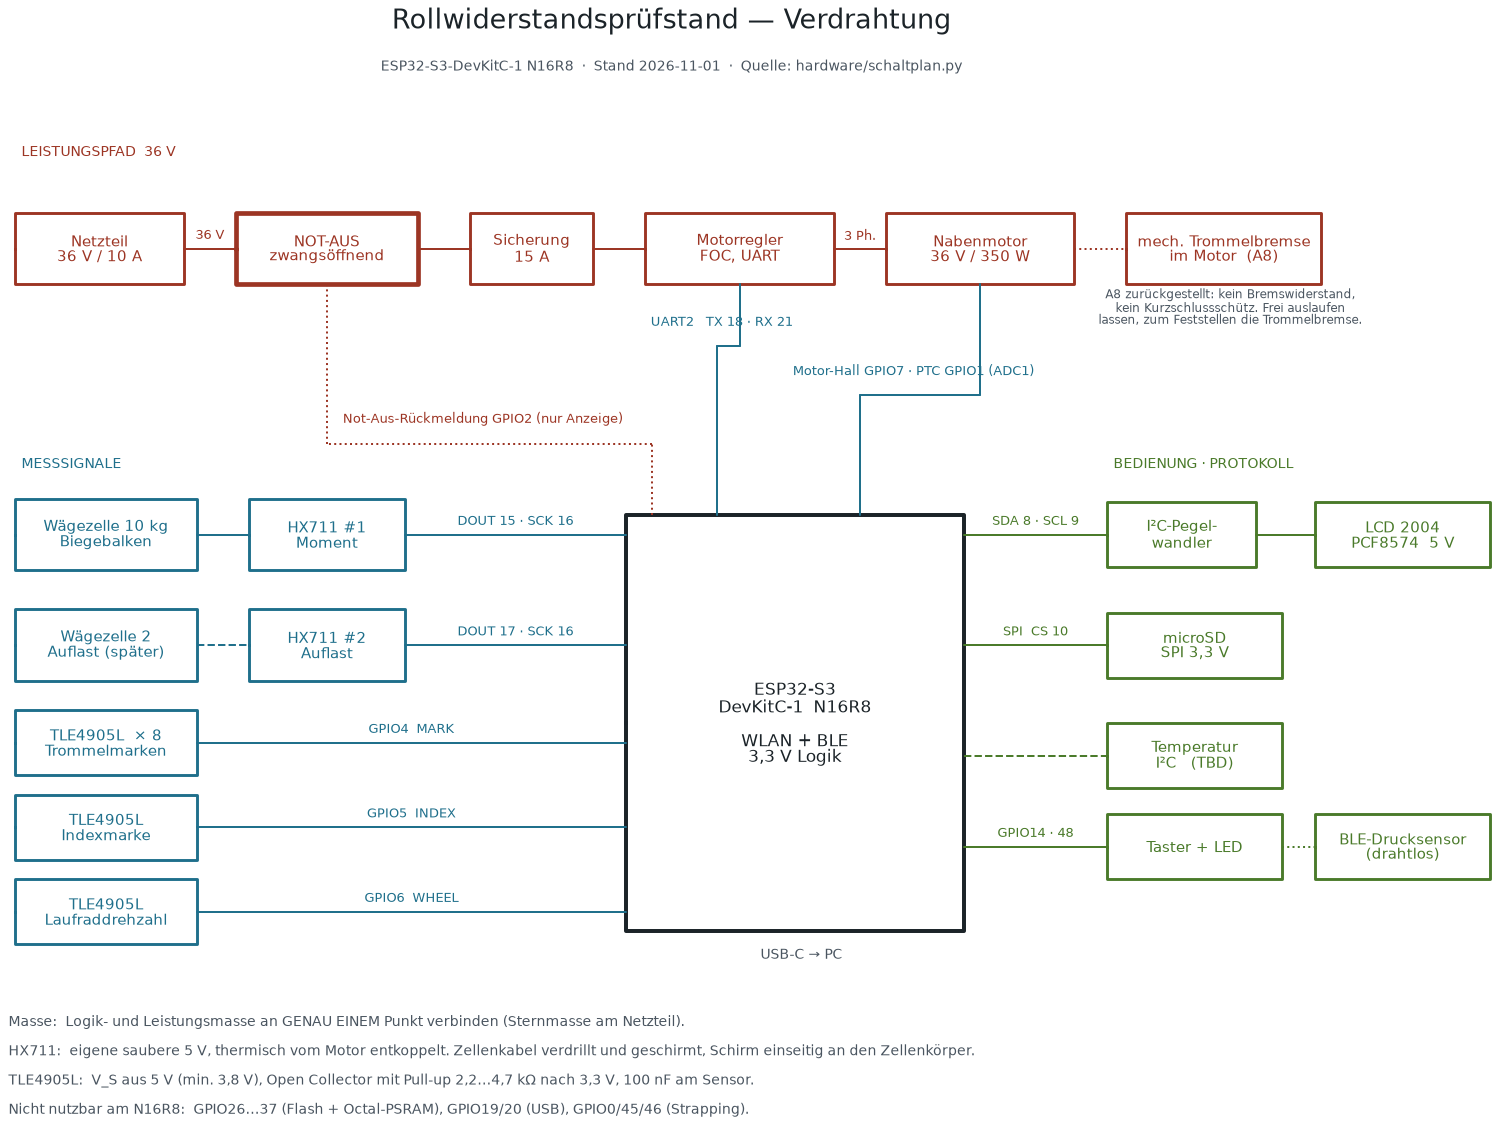
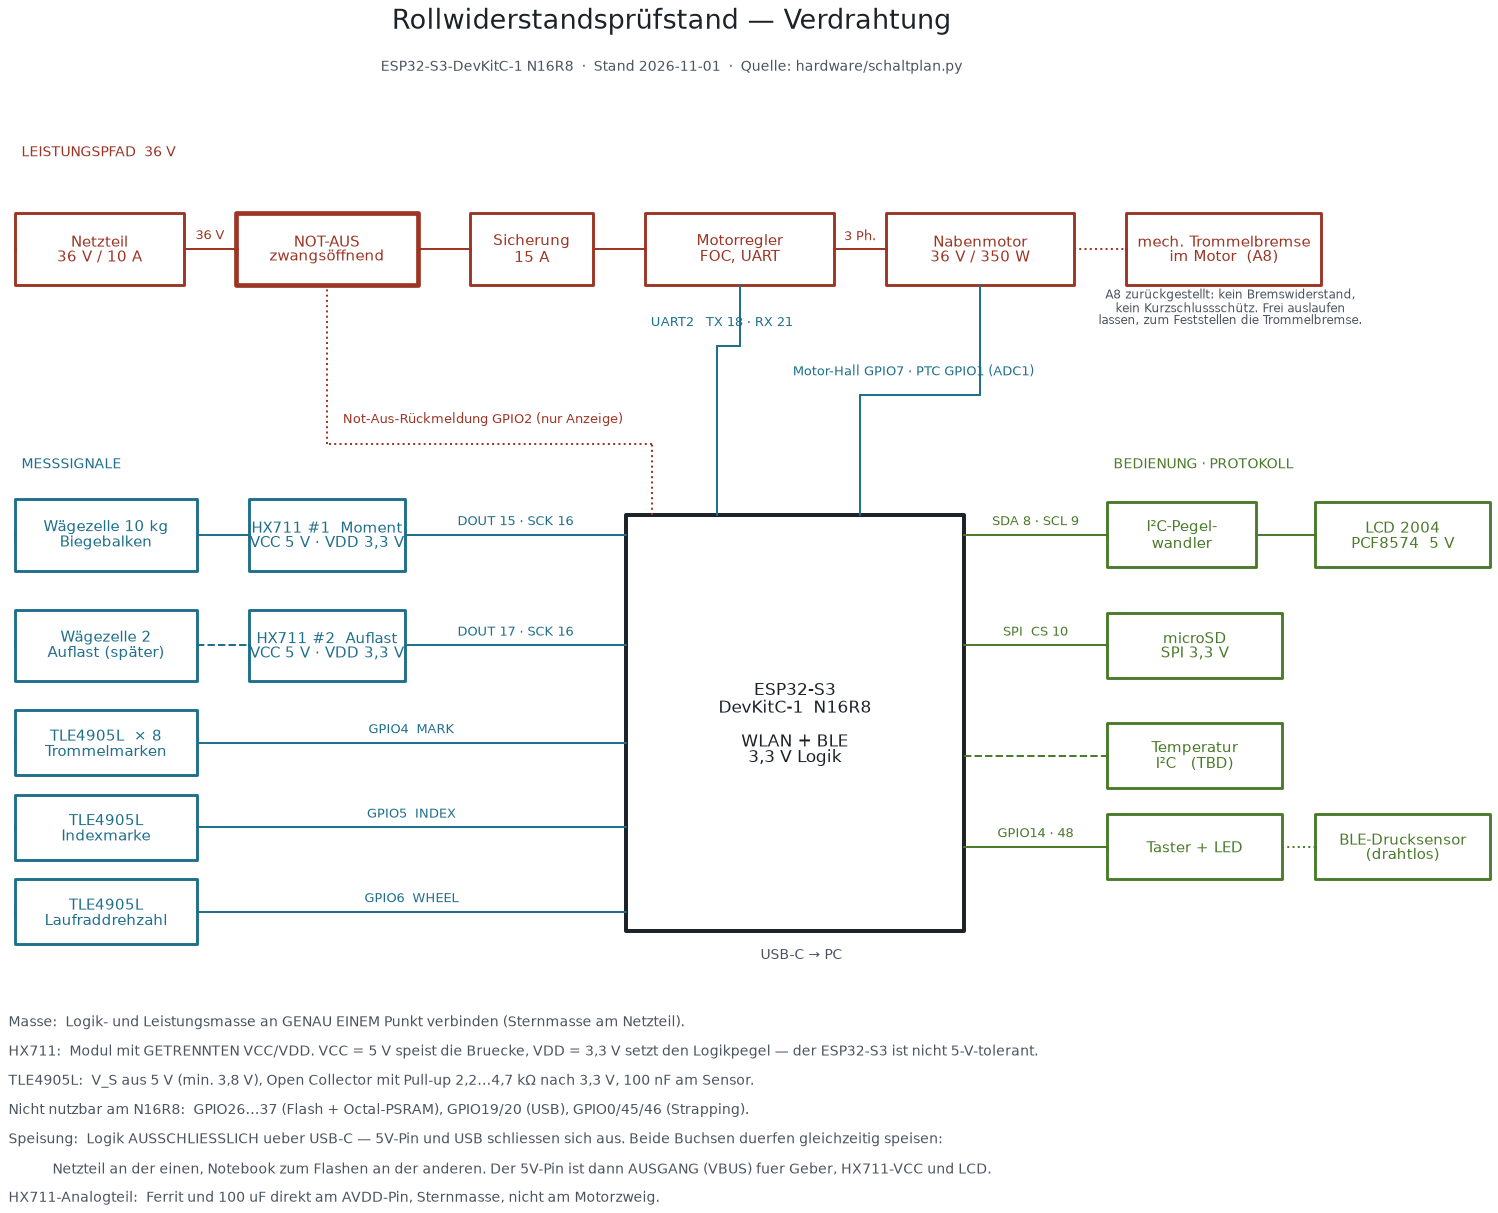
HX711 mit getrennten VCC/VDD festgelegt
VCC = 5 V speist die Bruecke, VDD = 3,3 V setzt den Logikpegel. Vierpolige
Module scheiden damit aus. Die Alternative, alles auf 3,3 V zu fahren, kostet
keine Counts (ratiometrisch), aber 3,6 dB SNR — bei 12 N Signal des besten
Rennreifens auf einer 98-N-Zelle zu viel.

Schaltplan, Stueckliste und Entscheidungslog nachgezogen. Stueckliste
ausserdem aktualisiert: ESP32-S3 beschafft, Geber und Magnete vorhanden,
Bremswiderstand zurueckgestellt, USB-Netzteil ergaenzt.

diff --git a/hardware/schaltplan.py b/hardware/schaltplan.py
@@ -74,9 +74,9 @@ with schemdraw.Drawing(show=False) as d:
 
     # --------------------------------------------------- Sensorik links
     zelle = box(d, -12.0, -4.4, 2.8, 1.1, 'Wägezelle 10 kg\nBiegebalken', SIG)
-    hx1   = box(d,  -8.4, -4.4, 2.4, 1.1, 'HX711 #1\nMoment', SIG)
+    hx1   = box(d,  -8.4, -4.4, 2.4, 1.1, 'HX711 #1  Moment\nVCC 5 V · VDD 3,3 V', SIG)
     zelle2= box(d, -12.0, -6.1, 2.8, 1.1, 'Wägezelle 2\nAuflast (später)', SIG)
-    hx2   = box(d,  -8.4, -6.1, 2.4, 1.1, 'HX711 #2\nAuflast', SIG)
+    hx2   = box(d,  -8.4, -6.1, 2.4, 1.1, 'HX711 #2  Auflast\nVCC 5 V · VDD 3,3 V', SIG)
     hall1 = box(d, -12.0, -7.6, 2.8, 1.0, 'TLE4905L  × 8\nTrommelmarken', SIG)
     hall2 = box(d, -12.0, -8.9, 2.8, 1.0, 'TLE4905L\nIndexmarke', SIG)
     hall3 = box(d, -12.0,-10.2, 2.8, 1.0, 'TLE4905L\nLaufraddrehzahl', SIG)
@@ -123,13 +123,22 @@ with schemdraw.Drawing(show=False) as d:
         'Masse:  Logik- und Leistungsmasse an GENAU EINEM Punkt verbinden (Sternmasse am Netzteil).',
         fontsize=7.5, color='#4a5560', halign='left')
     d += elm.Label().at((-12.0, -12.45)).label(
-        'HX711:  eigene saubere 5 V, thermisch vom Motor entkoppelt. Zellenkabel verdrillt und geschirmt, Schirm einseitig an den Zellenkörper.',
+        'HX711:  Modul mit GETRENNTEN VCC/VDD. VCC = 5 V speist die Bruecke, VDD = 3,3 V setzt den Logikpegel \u2014 der ESP32-S3 ist nicht 5-V-tolerant.',
         fontsize=7.5, color='#4a5560', halign='left')
     d += elm.Label().at((-12.0, -12.9)).label(
         'TLE4905L:  V_S aus 5 V (min. 3,8 V), Open Collector mit Pull-up 2,2…4,7 kΩ nach 3,3 V, 100 nF am Sensor.',
         fontsize=7.5, color='#4a5560', halign='left')
     d += elm.Label().at((-12.0, -13.35)).label(
         'Nicht nutzbar am N16R8:  GPIO26…37 (Flash + Octal-PSRAM), GPIO19/20 (USB), GPIO0/45/46 (Strapping).',
+        fontsize=7.5, color='#4a5560', halign='left')
+    d += elm.Label().at((-12.0, -13.80)).label(
+        'Speisung:  Logik AUSSCHLIESSLICH ueber USB-C \u2014 5V-Pin und USB schliessen sich aus. Beide Buchsen duerfen gleichzeitig speisen:',
+        fontsize=7.5, color='#4a5560', halign='left')
+    d += elm.Label().at((-12.0, -14.25)).label(
+        '           Netzteil an der einen, Notebook zum Flashen an der anderen. Der 5V-Pin ist dann AUSGANG (VBUS) fuer Geber, HX711-VCC und LCD.',
+        fontsize=7.5, color='#4a5560', halign='left')
+    d += elm.Label().at((-12.0, -14.70)).label(
+        'HX711-Analogteil:  Ferrit und 100 uF direkt am AVDD-Pin, Sternmasse, nicht am Motorzweig.',
         fontsize=7.5, color='#4a5560', halign='left')
 
     d.save('hardware/schaltplan.pdf')

diff --git a/docs/04-hardware.md b/docs/04-hardware.md
@@ -95,15 +95,17 @@ Firmware-Konstante `BELT_RATIO` existiert genau für diesen Fall.
 | Gegenstecker Julet 9-polig | oder Stecker abschneiden und eigene Verbinder setzen | offen |
 | Motorregler | sensorierte FOC, UART-Sollwert, Bremsfunktion (VESC-Klasse **oder** umgeflashte Hoverboard-Platine) | offen |
 | Netzteil | 36–42 V, ≥ 10 A | offen |
-| ESP32-Board | beliebig, ≥ 2 freie Interrupt-Pins | offen |
-| Hall-Sensoren | 2 Stück, unipolar oder latching, digital | offen |
-| Magnete | 6 + 1 für Marken und Index | offen |
+| ESP32-Board | **ESP32-S3-DevKitC-1 N16R8** | beschafft |
+| USB-Netzteil | 5 V / ≥ 1 A, für den Messbetrieb (nicht das Notebook) | offen |
+| HX711-Modul | **getrennte VCC/VDD** (fünfpolig, SparkFun-Bauform) — vierpolige Module scheiden aus, siehe §5.2 | offen |
+| Hall-Sensoren | 3 × TLE4905L (Marken, Index, Laufrad), unipolar | vorhanden |
+| Magnete | 8 + 1, Ø10 × 3 mm mit Ø3-Senkloch | vorhanden |
 | Netzteil | 36 V, ≥ 10 A (besser 15 A) — Reserve für die Stromgrenze beim Anfahren | offen |
-| Bremswiderstand + Chopper | ~100 W, falls rekuperativ gebremst werden soll; ein Netzteil kann Rückspeisung nicht aufnehmen | offen |
+| Bremswiderstand + Chopper | **zurückgestellt** (A8) — stattdessen frei auslaufen lassen, mechanische Trommelbremse zum Feststellen | – |
 | Stehlager für die Statorachse | 2 Stück, auf dem Wiegerahmen | offen |
 | Zahnriemen | **entfällt beim Direktantrieb** — nur nötig, falls A6 negativ ausfällt | – |
 | Not-Aus | zwangsöffnend, trennt den Leistungspfad | offen |
-| Zweiter HX711 | für die spätere Auflastmessung | später |
+| Zweiter HX711 | dieselbe Bauform, für die spätere Auflastmessung | später |
 | BLE-Drucksensor | Modell noch nicht festgelegt | später |
 
 ## 4 Pinbelegung
@@ -191,16 +193,17 @@ kostet die Messung.
 | HX711 | **VCC = 5 V** (analog), **VDD = 3,3 V** (digital) | DOUT auf 3,3 V |
 | LCD / PCF8574 | 5 V | I²C über Pegelwandler |
 
-Beim HX711 setzt das ein Modul mit **getrennten VCC- und VDD-Pins** voraus
-(SparkFun-Bauform, fünf Pins). VCC speist die Brücke, VDD legt den Logikpegel fest.
-Auf den billigen vierpoligen Modulen sind beide verbunden — dann bleibt nur, den
-ganzen Baustein auf 3,3 V zu fahren oder DOUT zu wandeln.
+**Festlegung: HX711-Modul mit getrennten VCC- und VDD-Pins** (SparkFun-Bauform,
+fünf Pins: VDD, VCC, DAT, CLK, GND). VCC speist die Brücke, VDD legt den Logikpegel
+fest. Am Chip sind das AVDD (Pin 3) und DVDD (Pin 16).
 
-Der ganze HX711 auf 3,3 V kostet **keine** Auflösung in Counts: die Brücke wird aus
-AVDD gespeist und AVDD ist zugleich die ADC-Referenz, die Messung ist also
-ratiometrisch. Es kostet aber **SNR** — ein Drittel weniger Erregung bei gleichem
-Eingangsrauschen sind rund 3,6 dB. Bei 12 N Signal des besten Rennreifens auf einer
-98-N-Zelle ist das nicht zu verschenken.
+Die billigen vierpoligen Module (VCC, GND, DT, SCK) scheiden damit aus — dort sind
+beide verbunden. Die Alternative wäre, den ganzen Baustein auf 3,3 V zu fahren. Das
+kostet **keine** Auflösung in Counts, weil die Brücke aus AVDD gespeist wird und AVDD
+zugleich die ADC-Referenz ist, die Messung also ratiometrisch läuft. Es kostet aber
+**SNR**: ein Drittel weniger Erregung bei gleichem Eingangsrauschen sind rund 3,6 dB.
+Bei 12 N Signal des besten Rennreifens auf einer 98-N-Zelle wird das nicht
+verschenkt.
 
 ### 5.3 Messtechnisch
 

diff --git a/docs/06-offene-fragen.md b/docs/06-offene-fragen.md
@@ -198,6 +198,8 @@ Rohdaten unter `data/` versionieren — ab welcher Menge wird das unhandlich?
 | Rechnerplattform | ESP32 (BLE für den Drucksensor, WLAN-Logging, ein Board für alles) | 2026-10-24 |
 | Geschwindigkeitsbereich | 10–60 km/h; 100 km/h erst nach Trommelfreigabe | 2026-10-24 |
 | Drehzahlaufnehmer | Hall statt Reed, 6 Marken + Index; Geschwindigkeit aus dem Fenster über eine ganze Umdrehung | 2026-10-24 |
+| Speisung der Logik | **Nur über USB-C.** 5V-Pin und USB schließen sich laut Espressif gegenseitig aus; eine vergessene externe 5 V beim Flashen wäre ein Kurzschluss zweier Quellen. Beide USB-Buchsen dürfen gleichzeitig speisen. | 2026-11-01 |
+| HX711-Pegel | Modul mit **getrennten VCC/VDD**: VCC = 5 V für die Brücke, VDD = 3,3 V für den Logikpegel. Der ESP32-S3 ist nicht 5-V-tolerant. Alternative (alles auf 3,3 V) kostet 3,6 dB SNR und wurde verworfen. | 2026-11-01 |
 | Markenzahl endgültig | **8** statt 6 — auf dem Teilkreis der 8 Abstandsklötze, geschraubte Ø10×3-Magnete mit A2-Schraube. Mehr Marken bringen *keine* Genauigkeit (das Ergebnis läuft index-getriggert über ganze Umdrehungen, dort kürzt sich die Teilung heraus), nur Latenz. [04-hardware](04-hardware.md) §9 | 2026-11-01 |
 | Rechnerplattform konkret | ESP32-**S3**-DevKitC-1 N16R8. Alte Pinbelegung (25/26/27/32/33/34/35/22) lag fast vollständig auf Pins, die es am S3 nicht gibt oder die Flash/PSRAM belegen. | 2026-11-01 |
 | Auslegungs-Crr und Hebelarm | `CRR_DESIGN_MAX` 0,015 → **0,007** (keine MTB-Reifen), dadurch `TORQUE_ARM_M` 0,070 → **0,040 m**. Der Auslegungsfall nutzt jetzt 48 % statt 27 % des Zellenmessbereichs. [08-staender](08-staender.md) §5 | 2026-11-01 |
